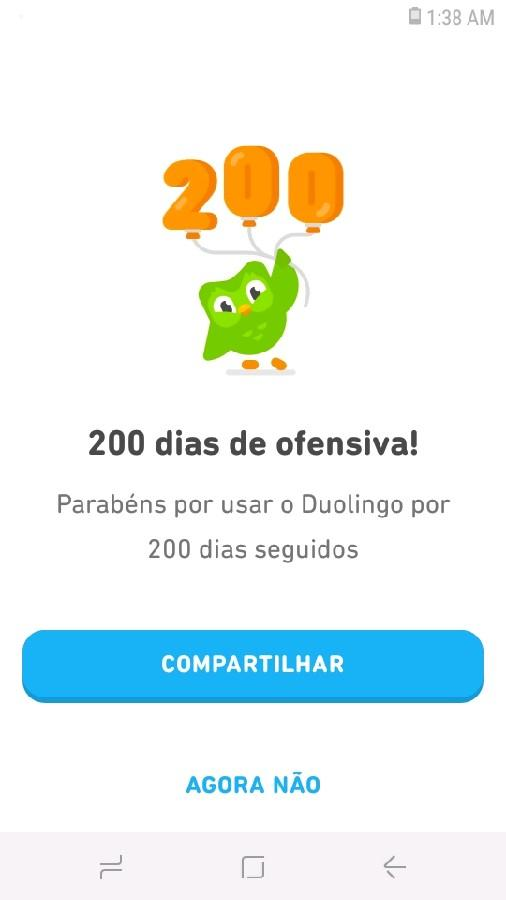
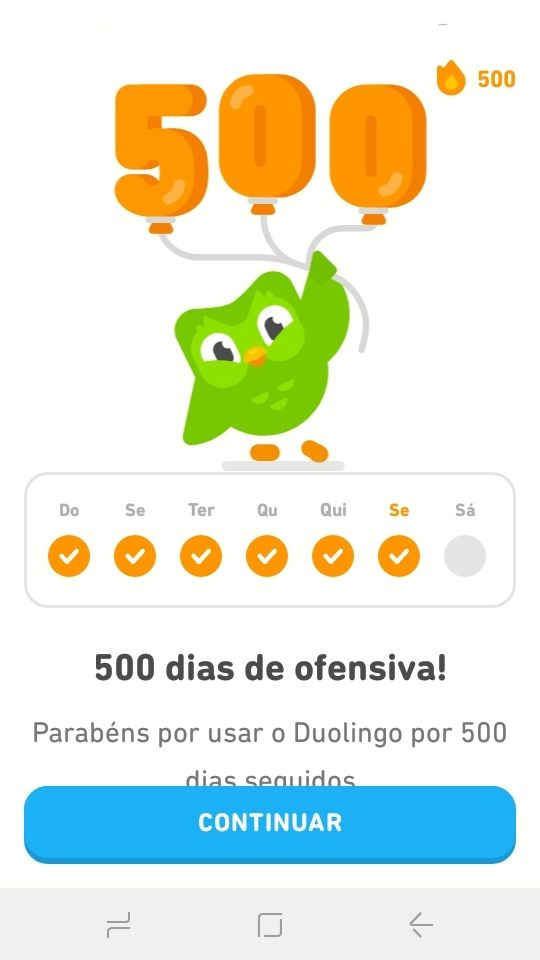
feat: removing an unecessary image, inserting a note about 500 days of offensive and replacing a image abaout 200 days for a image about 500 days of a offensive

diff --git a/index.htm b/index.htm
@@ -26,6 +26,7 @@
 				<li>Estou com quase todos os selos dourados, falta só 1 de todas as liçoes no nível 5</li>
 				<li>Ganhei a divisão diamante 2 vezes, mas sinceramente esforço-me apenas para ficar no top 5. Ficar com neura de ranking não é estudar, eu poderia estudar 1.000 vezes a mesma lição, no story, ganhar a divisão diamante e não aprender nada.</li>
 				<li>Já atingi todas as metas propostas pelo Duolingo</li>	
+				<li>Estou com uma ofensiva de mais de 500 dias</li>
 			<ul>
 		</div>
 		<article class="c-carousel c-carousel--simple">
@@ -65,7 +66,6 @@
 			<img class="d-block w-100" src="34.jpg" />
 			<img class="d-block w-100" src="35.jpg" />
 			<img class="d-block w-100" src="36.jpg" />
-			<img class="d-block w-100" src="37.jpg" />
 			<img class="d-block w-100" src="38.jpg" />
 			<img class="d-block w-100" src="39.jpg" />
 			<img class="d-block w-100" src="40.jpg" />
